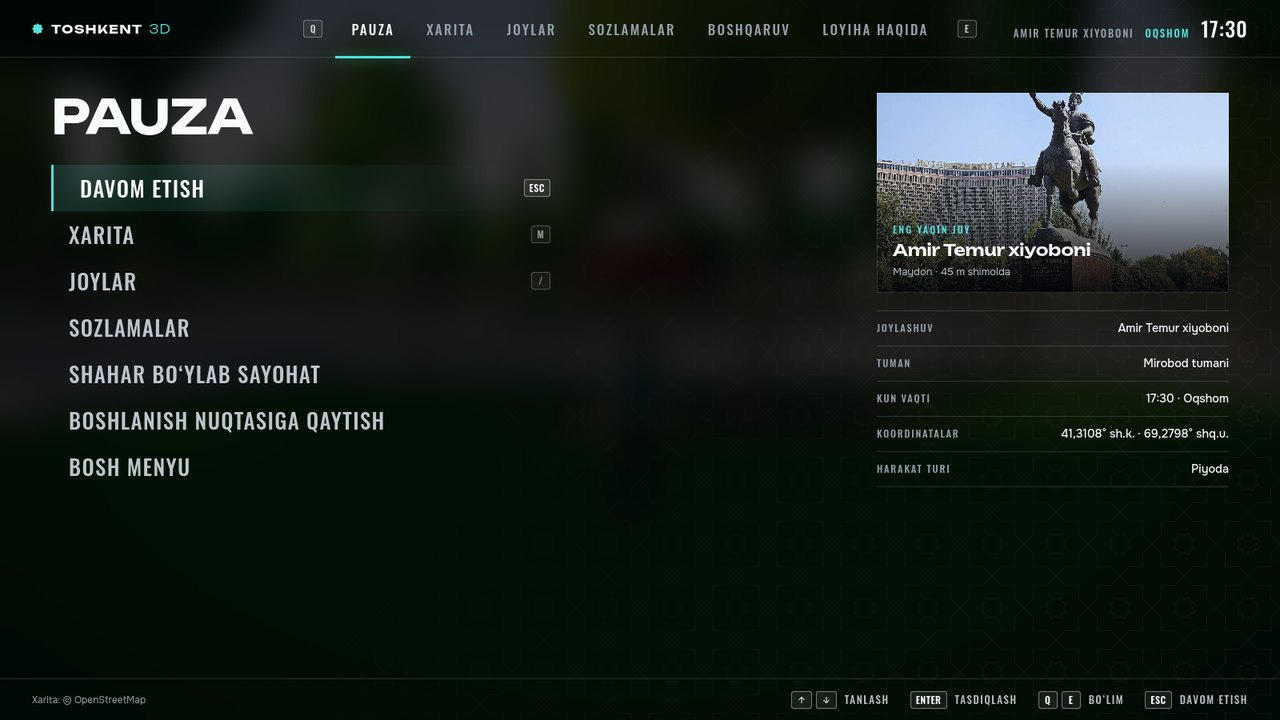
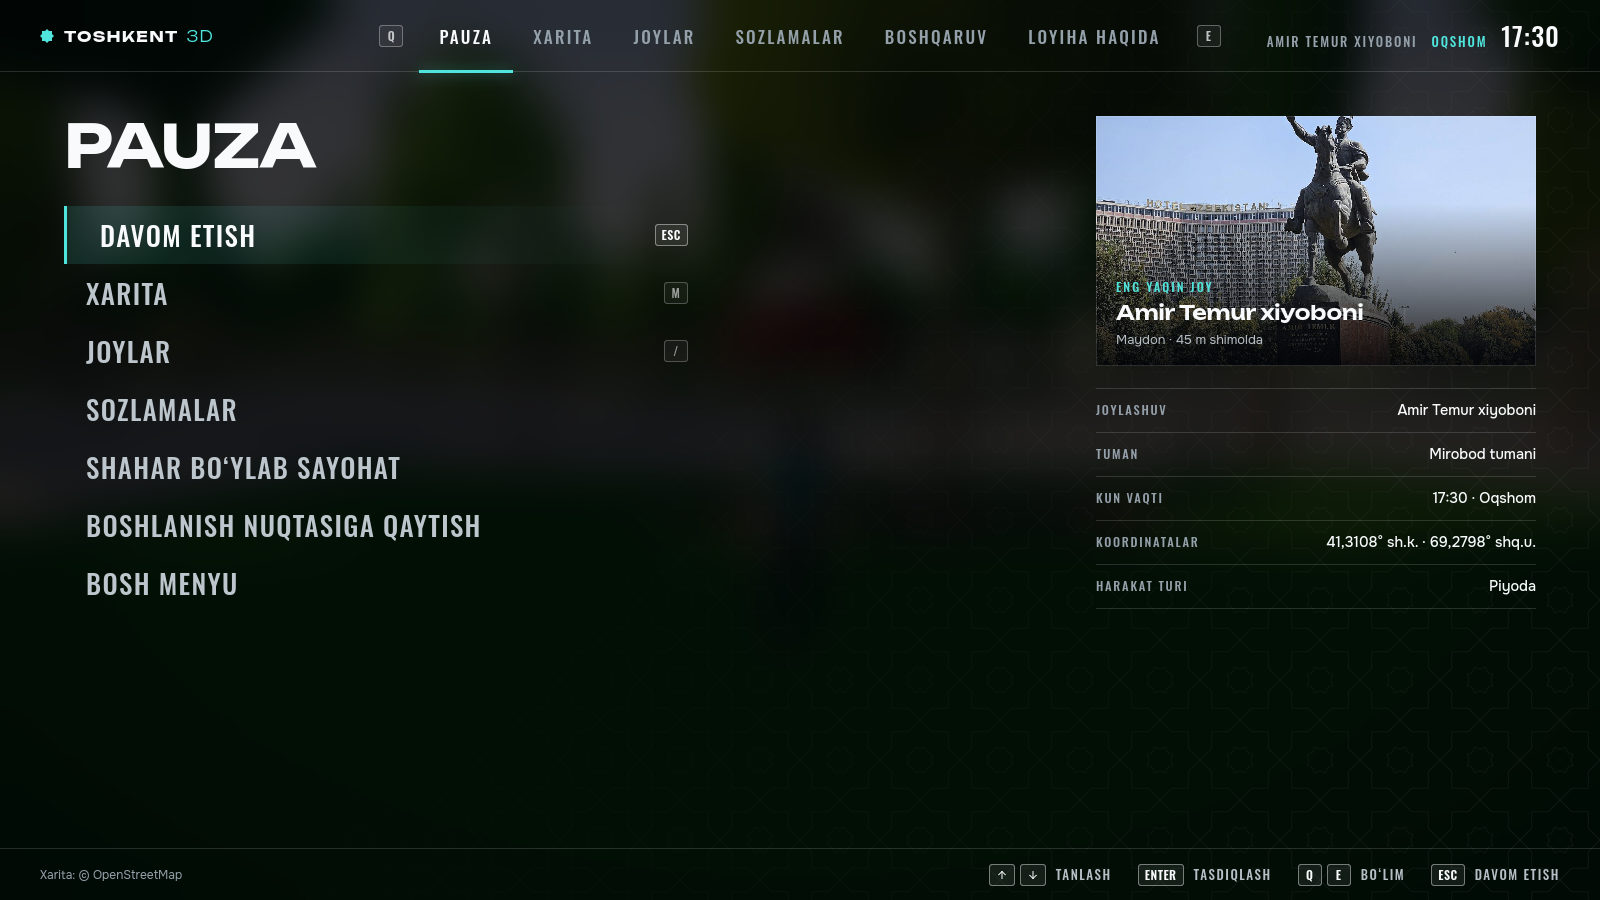
README: hero GIF and new screenshots (game menu, metro, Hazrati Imam)

diff --git a/README.uz.md b/README.uz.md
@@ -21,7 +21,7 @@
 
 <p align="center">
   <a href="https://tashkent-3d.ulussolutions.uz/">
-    <img src="docs/media/hero.jpg" alt="Boshlangʻich ekran: kamera quyosh botishida Toshkent teleminorasi yonidan oʻtmoqda" width="960">
+    <img src="docs/media/hero.gif" alt="Quyosh botishida Toshkent ustidan teleminora tomon parvoz" width="960">
   </a>
 </p>
 
@@ -59,11 +59,11 @@ vazifa ham, ochko ham yoʻq.
     <td align="center">Tungi shahar markazi.</td>
   </tr>
   <tr>
-    <td><img src="docs/media/hazrati-imam.jpg" alt="Hazrati Imom masjidi modeli"></td>
+    <td><img src="docs/media/hazrati-imam.jpg" alt="Hazrati Imom majmuasi ustidagi boshlangʻich ekran"></td>
     <td><img src="docs/media/metro.jpg" alt="Poyezd turgan metro bekati zali"></td>
   </tr>
   <tr>
-    <td align="center">Hazrati Imom masjidi, qoʻlda yasalgan 25 modeldan biri (koʻrib chiqish sahifasi).</td>
+    <td align="center">Boshlangʻich ekran ortida Hazrati Imom majmuasi.</td>
     <td align="center">Metro bekati zali.</td>
   </tr>
   <tr>

diff --git a/README.md b/README.md
@@ -21,7 +21,7 @@
 
 <p align="center">
   <a href="https://tashkent-3d.ulussolutions.uz/">
-    <img src="docs/media/hero.jpg" alt="Start screen: the camera passes the Tashkent TV tower at sunset" width="960">
+    <img src="docs/media/hero.gif" alt="Flying over Tashkent at sunset toward the TV tower" width="960">
   </a>
 </p>
 
@@ -58,11 +58,11 @@ there are no goals and no score.
     <td align="center">The centre at night.</td>
   </tr>
   <tr>
-    <td><img src="docs/media/hazrati-imam.jpg" alt="Model of the Hazrati Imam mosque"></td>
+    <td><img src="docs/media/hazrati-imam.jpg" alt="Start screen over the Hazrati Imam complex"></td>
     <td><img src="docs/media/metro.jpg" alt="Metro station hall with a train"></td>
   </tr>
   <tr>
-    <td align="center">Hazrati Imam mosque, one of 25 hand-made models (preview page).</td>
+    <td align="center">The Hazrati Imam complex behind the start screen.</td>
     <td align="center">A metro station hall.</td>
   </tr>
   <tr>
